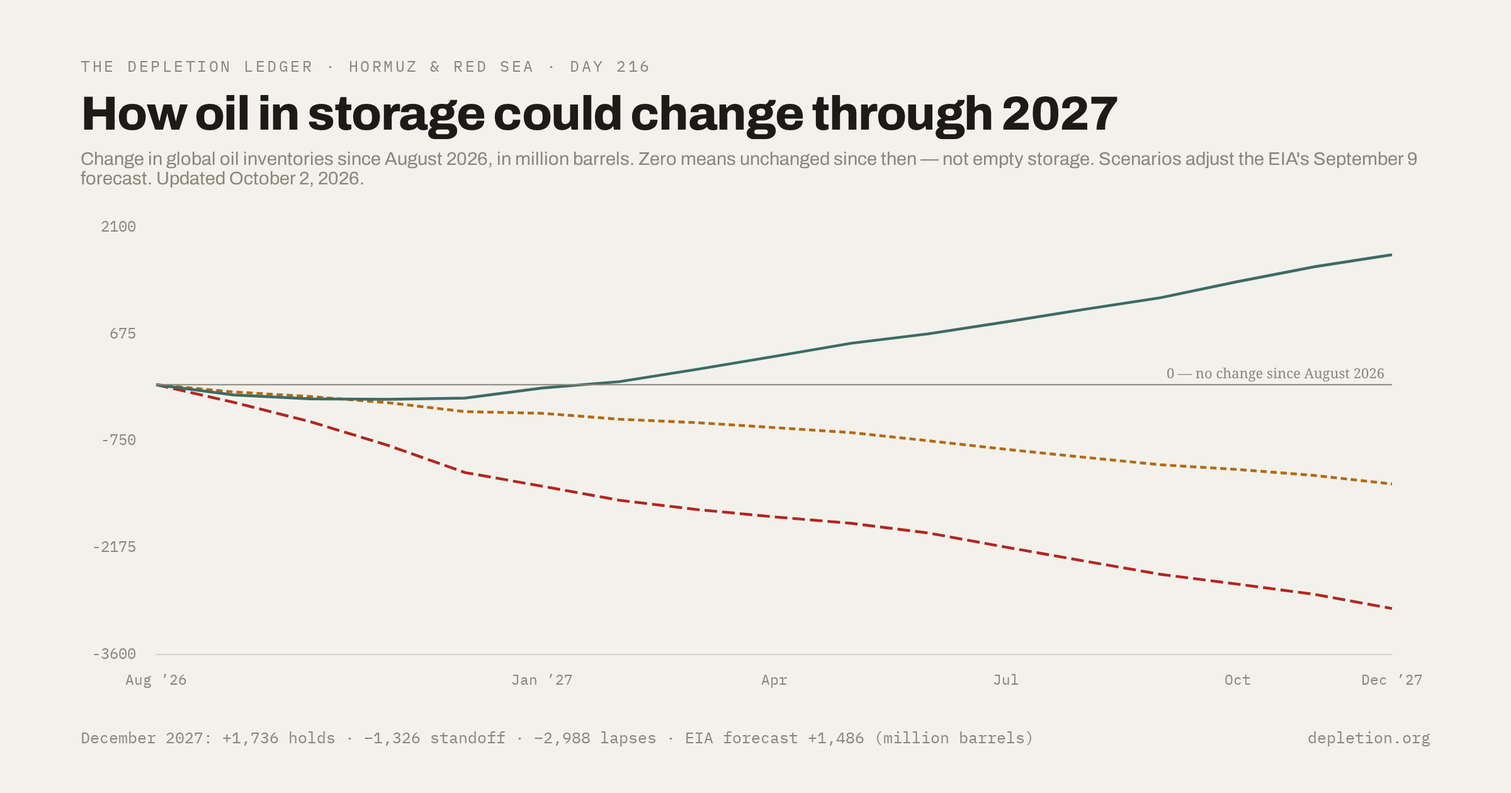
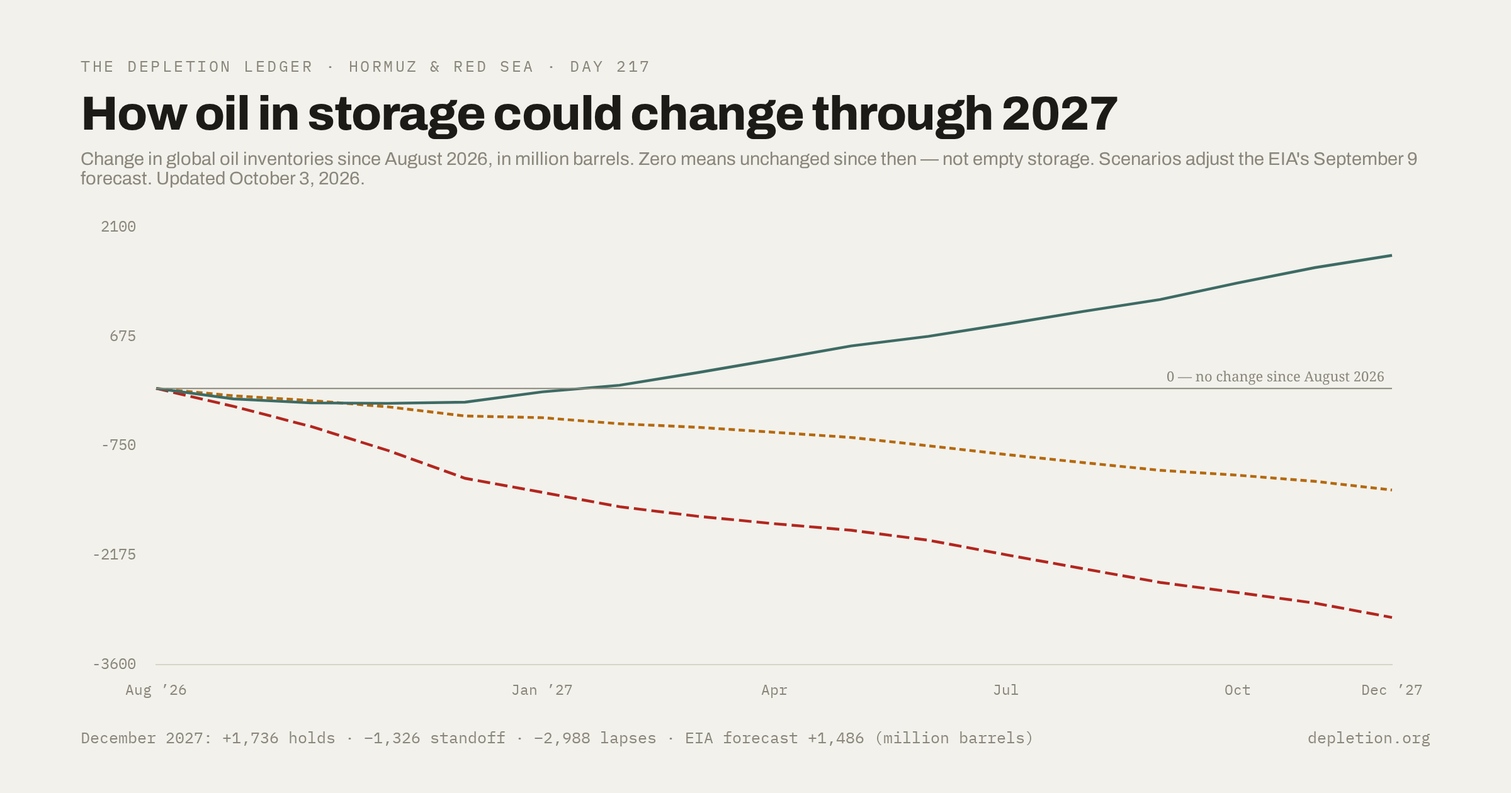
2026-10-03

diff --git a/site/src/data/crisis.ts b/site/src/data/crisis.ts
@@ -6,7 +6,7 @@
 // real observation with a source; `approx: true` marks a source's rounded estimate
 // (e.g. "Brent near $80 on Jun 22") and renders as a hollow marker.
 
-export const DATA_AS_OF = "2026-10-02";
+export const DATA_AS_OF = "2026-10-03";
 // War began Feb 28, 2026 (report: "Pre-war (Feb 28)"; ACLED damage inventory "since Feb 28"; IEA supply loss "since Feb").
 // Day count = days elapsed since Feb 28 → Sep 9, 2026 = Day 193.
 export const CRISIS_DAY_1 = "2026-02-28";
@@ -23,8 +23,8 @@ export interface SeriesPoint {
 // ---------- Headline stats ----------
 export const stats = [
   { label: "Brent", value: "$102.25", sub: "Oct 2 settlement · down $0.06 on the December contract · eighth session close above $100 · +35% vs pre-crisis ~$76" },
-  { label: "US diesel (AAA)", value: "$6.37", sub: "Oct 2 · tenth straight drop from the Sep 22 record $6.5276 · +71% vs pre-war $3.72" },
-  { label: "US gasoline (AAA)", value: "$4.40", sub: "Oct 2 · +56% vs Jan $2.81 (AAA)" },
+  { label: "US diesel (AAA)", value: "$6.36", sub: "Oct 3 · eleventh straight drop from the Sep 22 record $6.5276 · +71% vs pre-war $3.72" },
+  { label: "US gasoline (AAA)", value: "$4.38", sub: "Oct 3 · +56% vs Jan $2.81 (AAA)" },
   { label: "SPR", value: "283.8M", sub: "Sep 25 · down 0.8M in a week — about twice the prior two weeks' pace · down 131.7M from pre-war 415.4M · lowest since Nov 1982" },
   { label: "US diesel & heating oil", value: "105.2M", sub: "Sep 25 · down 2.3M in a week · 14.9% below last year · East Coast stocks 29% below last year" },
 ];
@@ -207,6 +207,7 @@ export const gasolineYtd: SeriesPoint[] = [
   { date: "2026-09-30", value: 4.4343, note: "AAA release, Sep 30" },
   { date: "2026-10-01", value: 4.4137, note: "AAA release, Oct 1" },
   { date: "2026-10-02", value: 4.3961, note: "AAA release, Oct 2" },
+  { date: "2026-10-03", value: 4.3807, note: "AAA release, Oct 3" },
 ];
 export const gasolinePreCrisis = 2.81; // Jan 2026 monthly avg (BTS/EIA)
 
@@ -246,6 +247,7 @@ export const dieselYtd: SeriesPoint[] = [
   { date: "2026-09-30", value: 6.4139, note: "AAA — eighth straight decline off the Sep 22 record" },
   { date: "2026-10-01", value: 6.3895, note: "AAA — ninth straight decline off the Sep 22 record" },
   { date: "2026-10-02", value: 6.3726, note: "AAA — tenth straight decline off the Sep 22 record" },
+  { date: "2026-10-03", value: 6.3554, note: "AAA — eleventh straight decline off the Sep 22 record" },
 ];
 export const dieselOldRecord = 5.85; // June 2022 AAA record (broken Sep 4)
 
@@ -526,11 +528,11 @@ export const watchGroups: { when: string; items: WatchItem[] }[] = [
   {
     when: "Any day",
     items: [
-      { item: "Whether the Saudi bypass keeps recovering. Since it restarted on Sep 22, the East–West pipeline has run at about 2.65M barrels a day (Kpler, Sep 29) — roughly half the pre-attack pace of about 5.5M a day. Shipping reports citing Vanguard Tech say a projectile struck the Yanbu North Crude Terminal on Oct 1, briefly stopping operations. No one has claimed responsibility, and news agencies have not confirmed the report.", why: "The restart restores an export route around Hormuz. We moved the odds to 10/50/40 on Sep 29 based on corroborated loadings and flows — further interruptions at the terminal could slow the recovery. Watch whether scheduled loadings continue." },
-      { item: "The G7's 100M-barrel release. On Oct 2 the G7 agreed to release up to 100M barrels of crude oil and refined fuels over four months through the IEA, including a substantial diesel release in the first 20 days. US distillate stocks, which include diesel and heating oil, stood at 105.2M barrels on Sep 25 (EIA).", why: "Watch whether diesel pump prices fall through late October and whether US distillate stocks return above about 30 days of supply, starting with the Oct 7 EIA report. Deliveries under the March 400M-barrel IEA release are still underway." },
+      { item: "Whether the Saudi bypass keeps recovering. Bloomberg reported on Oct 2 that the East–West pipeline was carrying about 6M barrels a day, more than 80% of its capacity. About 4.5M a day was available for export from Red Sea ports, a wartime high. Kpler had reported pipeline flows of about 2.65M a day on Sep 29, after the Sep 22 restart. Shipping reports (Marine Insight, citing Clearwater Dynamics) say a projectile struck inside the Yanbu port on Oct 1, starting a fire and briefly stopping loadings; loading later resumed. No one has claimed responsibility.", why: "The bypass lets oil leave Saudi Arabia without passing through Hormuz. Its restart informed our Sep 29 odds of 10/50/40. Watch whether tanker loadings keep up with the higher pipeline flows and whether further attacks interrupt them." },
+      { item: "The G7's 100M-barrel release. On Oct 2 the G7 agreed to release up to 100M barrels of crude oil and refined fuels over four months through the IEA, including a substantial diesel release in the first 20 days. Trump said the US would not ban diesel exports (Reuters, Oct 2). US distillate stocks, which include diesel and heating oil, stood at 105.2M barrels on Sep 25 (EIA).", why: "Watch whether diesel pump prices fall through late October and whether US distillate stocks return above about 30 days of supply, starting with the Oct 7 EIA report. Deliveries under the March 400M-barrel IEA release are still underway." },
       { item: "Whether the US and Iran agree on the steps to reopen the strait. Trump publicly rejected Iran's seven-day proposal on Sep 26. Rubio ordered the Iranian delegation to leave New York on Sep 28; the State Department confirmed the order on Oct 1. The Pentagon is considering sending more naval forces, which could leave three carriers in the region (Washington Post). Iran is preparing a broader, more forceful response if the US resumes large-scale strikes (Reuters, Oct 1).", why: "Watch for a signed deal, a change in the blockade, or a resumption of strikes — any of which could change how much oil gets through." },
-      { item: "Whether Houthi attacks spread to non-Saudi shipping. The escalation so far has stayed on Saudi territory — the coalition intercepted four drones and two ballistic missiles over Khamis Mushait and Jazan on Oct 1; no non-Saudi vessel has been hit. Separately, Reuters (Oct 2) reports Saudi Arabia is planning a ground assault on the Houthis — an attack around Bab el-Mandeb or on several fronts, potentially involving more than 100,000 Yemeni troops.", why: "War-risk insurance for non-Saudi ships is about 0.2–0.3% of hull value vs 3–7% for Saudi-linked tankers, and there is no US escort in the Red Sea (Reuters, Sep 25). A strike on a non-Saudi vessel could push container traffic back around Africa." },
-      { item: "Ship traffic through Hormuz. Kpler's verified daily counts: 14 (Sep 23), 9 (Sep 24), 5 (Sep 26), none (Sep 27). UKMTO logged a tanker struck by an unknown projectile on Oct 1 (147-26) and a second on Oct 2 (148-26). The second tanker was leaving the strait; its crew extinguished the fire and the vessel continued underway. Six vessels have been struck since Sunday (gCaptain).", why: "Kpler's seven-day average of crude oil exports through the strait rose to 13.5M barrels a day through Sep 28 — back at the pre-war crude level. But crude and products together (14.2M a day) still run about 80% of pre-war, with refined products far below pre-war (CNBC, Sep 30). Watch whether more ships can pass safely." },
+      { item: "Whether Houthi attacks spread to non-Saudi shipping. The escalation so far has stayed on Saudi territory — the coalition intercepted four drones and two ballistic missiles over Khamis Mushait and Jazan on Oct 1; no non-Saudi vessel has been hit. Yemeni government forces claim 474 strikes in 24 hours killed or wounded 1,540 Houthi fighters (Oct 3 report; unverified). Reuters reported on Oct 2 that Saudi Arabia is planning a larger ground assault, potentially involving more than 100,000 Yemeni troops. Critical Threats, citing a Pakistani official, reports that Pakistan has deployed 30,000–40,000 military personnel to help defend Saudi airspace and borders.", why: "War-risk insurance for non-Saudi ships is about 0.2–0.3% of hull value vs 3–7% for Saudi-linked tankers, and there is no US escort in the Red Sea (Reuters, Sep 25). A strike on a non-Saudi vessel could push container traffic back around Africa." },
+      { item: "Ship traffic through Hormuz. Kpler's verified daily counts: 14 (Sep 23), 9 (Sep 24), 5 (Sep 26), none (Sep 27). UKMTO logged tankers struck by unknown projectiles on Oct 1 (147-26) and Oct 2 (148-26) inside the strait. Reuters reported early on Oct 3 that a third crude tanker had been struck 4 nautical miles east of the Omani coast (UKMTO 149-26, issued Oct 2 at 21:42 UTC — the warning gives no coordinates). Crews were reported safe in all three incidents, with no vessel losses reported. Six vessels had been struck in the strait since Sunday as of Oct 2 (gCaptain).", why: "Kpler's seven-day average of crude oil exports through the strait rose to 13.5M barrels a day through Sep 28 — back at the pre-war crude level. But crude and products together (14.2M a day) still run about 80% of pre-war, with refined products far below pre-war (CNBC, Sep 30). Watch whether more ships can pass safely." },
     ],
   },
   {

diff --git a/research/SUMMARY.md b/research/SUMMARY.md
@@ -1,5 +1,7 @@
 # Oil Crisis — Living Summary
 
+*Last updated: Oct 3, 2026 (Day 217, ~13:40 UTC) — **full daily pass: judgment UNCHANGED at 10/50/40; no clause fired** — **Bypass recovery ahead of the weekly data: Bloomberg (Oct 2) — Aramco has restored the East–West pipeline to MORE THAN 80% of capacity, ~6M b/d with ~4.5M b/d available for export from the Red Sea ports, a wartime high** (up from 2.65M b/d on Kpler's Sep 29 reading). **Third tanker of October: Reuters reported early Saturday that a crude tanker had been struck by an unknown projectile 4nm east of the Omani coast (UKMTO 149-26, issued Oct 2 at 21:42 UTC — no coordinates in the warning, so "outside the strait" is NOT established) — crew safe, no attribution, not a loss** (loss input stays at 1, *La Stephanie*). **Yanbu corroborated** (Marine Insight/Clearwater Dynamics: the Oct 1 projectile started a fire; loading briefly stopped, later resumed). **UNCONFIRMED, held off the site: Reuters witness report of a large fire at an Aramco facility near Riyadh (~11:50 UTC) + FIRMS thermal + alleged Houthi strike** — no official confirmation, no damage report; if true, the first strike on Saudi infrastructure in the capital region. **Yemen: the strike tempo is up** — the Yemeni government claims 474 operations / 1,540 killed or wounded in 24h (unverified; the tally includes artillery and missiles, not airstrikes alone); NYT reports the planned 100k+ Yemeni-troop assault is now underway (that stands on the NYT report — the 474 tally alone does not establish it); Critical Threats reports Pakistan deploying 30–40k personnel to Saudi. **Trump: the US will NOT ban diesel exports** (Reuters, Oct 2, after the G7's 100M-bbl release). OPEC+ meets tomorrow (Oct 4); STEO Oct 6; WPSR Oct 7. Prices: no new settlement (Saturday) — Oct 2 settles stand (Brent $102.25, WTI $91.11, 10-yr 5.277). AAA Oct 3: diesel **$6.3554 — eleventh straight drop off the $6.5276 record**, regular $4.3807; cracks re-paired to the Oct 2 settlement ($91.11, nearest trading day): diesel $175.8, gasoline $92.9 (record $181.8, Sep 23). Polymarket: Dec 31 20.5% (flat), Oct 31 3.15% (up from 2.55%), Nov 30 9.5%. **Model v2.4b: HORIZON 15.0/50.0/35.0 (STATE 0/100/0) — flat** (transits 5 — Kpler's Sep 28–30 / Oct 1–2 daily counts still unpublished). Calibration: unchanged — 2 resolved, 9 open, Brier 0.2210. Site: Oct 3 retail + crack re-pairing + watchlist rework — **PRODUCTION SHIPPED ~14:36 UTC on the user's green light, version 9acfb2fd-1e81-4a17-9aac-705609192317** (supersedes d2ba166c; staging ran 88c1c7fa → e81218b6 with the external-review corrections → 14cd82c0 with the Brent/WTI + 10-yr endpoint dot fixes; scale fix gasXScale/crack 277→278 in 88c1c7fa). Verified on prod: www 200 / apex 301 / /model 200, all new strings present, stale gone, all 20 charts OK (brentChart nearEnd=2, treasury10yChart endDot=true), zero console errors. **FLAG: the China export-suspension trigger candidate expired today unratified (48h rule) — EXPIRED UNPRICED, event recorded.**
+
 *Last updated: Oct 2, 2026 (Day 216, ~22:10 UTC) — **DATA PASS (user-directed chart check) — Oct 2 settles ingested: Brent $102.25 (Dec, −$0.06, EIGHTH close above $100; intraday low $98.43 on the G7 release news), WTI $91.11 (Nov, −1.9%), 10-yr 5.277% (eighth straight close above 5%, below the war-high 5.293)** — cracks re-paired same-day: diesel $176.5 / gasoline $93.5 (record $181.8, Sep 23). Russia struck list now 7 plants (Volgograd, Oct 2, Gen Staff — halt unverified; "Samara" oil terminal also hit); Novorossiysk row dropped and folded into the flag; Novak's partial-diesel-lift signal added; section net-smaller (S&P tonnage breakdown, Mongolia protests, duplicated September tally cut). Watchlist NET ZERO (7→7, in place): Yanbu terminal strike, G7 100M-bbl release (frontloaded diesel, 20 days), plan rejection + delegation expulsion + carrier surge, Saudi ground-assault plan, UKMTO 148-26. — **PRODUCTION SHIPPED ~23:05 UTC on the user's green light, version d2ba166c-a044-476a-b858-1d164c56aaa6** (supersedes 7a5a15e6; staging versions 71f591a6 → 1ba14fe9 with the external-review corrections; prod verified: all new strings present, no stale strings, all 20 charts OK, zero console errors).*
 
 *Last updated: Oct 2, 2026 (Day 216, ~21:40 UTC) — **EVENING NEWS-ONLY PASS (user deferred prices) — judgment UNCHANGED at 10/50/40; no clause fired** — **UKMTO 148-26: a second tanker struck in the strait on Oct 2 (after 147-26 on Oct 1) — outbound transit, small fire + blackout, extinguished, vessel underway; KOTC VLCC per Splash247, single source; NOT a confirmed loss — loss input stays at 1, *La Stephanie*** — gCaptain tally: six vessels hit in the strait since Sunday. **Yanbu UPGRADED from claim to corroborated:** a projectile landed within the port area of **Yanbu North Crude Terminal on Thursday Oct 1** — fire near a tank farm, **terminal temporarily suspended operations** (Maritime Executive + Vanguard Tech + bystander video; Splash247: "briefly disrupted loading") — days after loadings resumed (11 tankers loading by Wednesday); **no claim of responsibility, no wire confirmation**; the ESPO line itself not reported damaged; Macron's French air-defense deployment for the site is in place. **Saudi Arabia plans a ground assault on the Houthis** (Reuters; two options: focused Bab el-Mandeb coastal push or multi-front offensive; 100k+ Yemeni troops; no comment from any side). **G7 100M release is now the official announcement** (AP/Reuters/WSJ/NYT): up to 100M bbl over 4 months via the IEA, "frontloaded substantial diesel release within the first 20 days by G7 members and partners"; US distillate stocks (diesel + heating oil) at 105.2M bbl on Sep 25 (EIA) — the AJ-cited "record-low 107.9M (Sep 11)" figure is stale per the external review; the March 400M-bbl IEA release is still running. **Diplomacy hardens both ways:** State Department confirmed **Rubio ordered Araghchi's UN delegation out of New York** (order given Monday; the delegation flew to Doha; Qatar still mediates); **Reuters: Iran is preparing a broader, more forceful response if the US resumes large-scale strikes** (officials privately see diplomacy as unlikely to succeed); **Pentagon is planning a possible SURGE of naval forces — three carriers in the region** (WaPo; third CSG + ~10k troops deploying); Treasury extended Operation Economic Outcast to Iran's auto sector (IKCO/SAIPA, >90% of domestic market), rail, metals + the A7 shadow-banking network, with sectoral determinations. **Flydubai:** Netanyahu says the co-pilot had undergone "Islamist radical indoctrination." **Bloomberg:** FBI/Coast Guard found hackers accessed the propulsion system of a US-bound supertanker this summer (no attribution). **Macro context:** September payrolls +29k with unemployment rising (weak payrolls cut Fed-hike odds); ISM prices index 77.9 — "the level last seen when the war began." **Houthi front:** 4 drones + 2 ballistic missiles intercepted over Khamis Mushait/Jazan Thursday; Medina power-station claim stands (Houthis deny); 197,906 IDPs registered; UN: 3 in 4 households go hungry in parts of Yemen; SNN "explosions in Riyadh" (~20:30 UTC) UNVERIFIED (single source). **China export-suspension trigger candidate still open — due RATIFY OR EXPIRE ~Oct 3.** Next: STEO Oct 6 (the EIA–market spread check — cannot miss it), OPEC+ Oct 4, WPSR Oct 7. Site NOT touched this pass — the 148-26/Yanbu/G7/Saudi-offensive updates + the pending EU-diesel watchlist rewrite land in the next full pass.*
@@ -24,6 +26,8 @@
 
 
 ## Where things stand
+
+**Oct 3 (full daily pass): the bypass is recovering faster than the weekly data showed, a third tanker was hit — and there is an unconfirmed fire at an Aramco refinery near Riyadh.** The strait's quiet run (ended Oct 1) has continued to deteriorate: a third October tanker — a crude tanker struck 4nm east of the Omani coast (UKMTO 149-26, issued Oct 2 21:42 UTC; no coordinates, so "outside the strait" is not established; crew safe, no attribution, no loss). The Yanbu port fire (Oct 1 strike) is corroborated — loading briefly stopped, later resumed. Meanwhile the East–West pipeline is back above 80% of capacity at ~6M b/d (Bloomberg, Oct 2) — a wartime export high that weakens the "one month to full return" reading the watchlist carried since Sep 29. The Yemeni government claims 474 operations in 24h (unverified; artillery/missiles/other weapons, not airstrikes alone) and NYT reports the planned ground assault is now underway — that stands on the NYT report; the tally alone does not establish the coastal offensive has begun. **Unconfirmed: a Reuters witness report of a fire at an Aramco facility near Riyadh** (FIRMS thermal, alleged Houthi claim, no official confirmation) — the first capital-region strike if true; held off the site, logged. Judgment **10/50/40 unchanged — no clause fired**; model flat at **15.0/50.0/35.0** (no Kpler daily counts since Sep 27 to move the transits input). Prices flat (no Saturday settlement); diesel **$6.3554**, eleventh straight drop. **The China export-suspension trigger candidate EXPIRED UNPRICED today** (48h rule, unratified — event recorded). Next: **OPEC+ Oct 4 (tomorrow), STEO Oct 6, WPSR Oct 7** — all three scheduled events inside 72h.
 
 **Oct 2 (full daily pass): the strait's quiet run is over** — UKMTO 147-26: a supertanker was struck by an unidentified projectile in the strait on Oct 1, 1750 GMT (fire on board, all crew safe, no damage assessment yet — the first tanker attack in October; NOT a confirmed loss, so the tanker-loss filter input stays at 1, *La Stephanie*). Brent settled **$102.31 on the December contract** on Oct 1 (the November contract's final day was Sep 30 at $103.50 — the roll is disclosed; +4.4% vs the December contract's own prior; a seventh consecutive close above $100); **WTI (November contract) $92.87, +2.7%**; the **10-yr closed 5.237% — seventh straight close above 5%, down from the war's high close of 5.293% on Sep 30**. Diesel **$6.3726 — a tenth straight drop off the $6.5276 record**; gasoline **$4.3961**; cracks $175.5/$174.8 (diesel) and $92.5/$91.8 (gasoline) vs the $92.87 settlement (record $181.8, Sep 23). Polymarket: "normal by **Dec 31**" **20.5%** (drifted up from 19.5% — still the most-closed market), "by Oct 31" 2.55%, "by Nov 30" 9.5%. Model v2.4b: **HORIZON 15.0/50.0/35.0 (STATE 0.0/100.0/0.0) — flat**; judgment **10/50/40 unchanged; no clause fired** (the UKMTO strike is an attack, not a confirmed loss, inside the ongoing negotiation regime; the Trump "ready to fold up" remarks are posturing; the EU reserve proposal and the OPEC+ delay are process). Kpler: the 7-day average of crude through the strait rose to **13.5M bpd through Sep 28 (near pre-war by the crude measure) — but product flows remain under 20% of pre-war; "diesel carries the sharpest risk"**; September LNG was the highest since the war started. **France proposed a 50M-bbl joint diesel release + 50M-bbl crude via the IEA** (US condition: no unilateral diesel export ban; G7 call possible). **OPEC+ delayed the 2027 output-quota capacity review to mid-November** (war disrupted expansion plans). Trump: Iran is "ready to fold up," the war will end "right after the election, or sooner" (the 9,000-troop build-up continues; three carriers/two landing groups by end-November). **The China export-suspension trigger candidate is still open — expires ~Oct 3.** Next: **STEO Oct 6** (the EIA–market spread reweight check — cannot miss it), **WPSR Oct 7** (SPR pace + the Sep 28–30 Kpler counts).
 

diff --git a/research/logs/2026-10-03.md b/research/logs/2026-10-03.md
@@ -1,0 +1,61 @@
+# Daily pass — Sat Oct 3, 2026 (~13:40 UTC) — day 217
+
+## Step 0 — landing checks
+- EIA WPSR: newest is week ending Sep 25 (already ingested); next is Oct 7.
+- CPI: newest is August (already ingested).
+- Nothing else new today (Saturday).
+- No futures contract rolls (WTI Nov rolls ~Oct 25; Brent Dec in mid-Dec).
+- Prices: no new settlement — Oct 2 settles remain the latest (Brent Dec 102.25, WTI Nov 91.11, 10y 5.277); BZ=F/CL=F spread 11.14 = normal.
+
+## News (wire/primary first)
+1. **ESPO above 80% of capacity** (Bloomberg, Oct 2, via Investing.com + briefs.co): Aramco has restored the East–West pipeline to ~6M b/d, with ~4.5M b/d available for export from the Red Sea ports — a wartime high. Big step up from the 2.65M b/d Kpler saw on Sep 29; the bypass is recovering faster than the weekly data suggested.
+2. **Third tanker of October** (Reuters, published early Sat): UKMTO 149-26 (ATTACK, issued Oct 2 at 21:42 UTC — primary PDF pulled this pass) reports a crude tanker struck by an unknown projectile **4nm east of the Omani coast, no coordinates in the warning** ("east of Oman" is not established as outside the strait — Oman includes Musandam). Crew safe, no environmental impact reported, authorities investigating. The attack time itself is unverified — "early Oct 3" is the Reuters publication time, not the event time. Vessel not lost.
+3. **Riyadh Aramco refinery fire — UNCONFIRMED** (Reuters witness report, ~11:50 UTC): heavy smoke/fire near an Aramco facility in Riyadh; FIRMS shows a thermal anomaly; alleged Houthi strike (Türkiye Today) with no evidence. No official confirmation, no damage report, no claim of responsibility. If confirmed, the first strike on Saudi infrastructure in the capital region. Held off the site this pass; log as claim.
+4. **Yanbu corroboration** (Marine Insight, Oct 3, citing Clearwater Dynamics): projectile struck inside Yanbu port on Oct 1, fire, **loading briefly stopped (a Liberian-flagged tanker, reported 13:15) and later resumed** — corroborates the Oct 1 terminal strike already on the watchlist; no casualties or damage extent reported.
+5. **Trump: no US diesel export ban** (Reuters/Politico, Oct 2) — after the G7 agreed the 100M-barrel release.
+6. **Yemen: the strike tempo is up** — Yemeni government claims 474 operations / 1,540 killed or wounded in 24h (Iran International, Oct 2 statement, Oct 3 coverage; the tally includes artillery, missiles and other weapons — not airstrikes alone; unverified). Houthis claim 94+ Saudi strikes across Yemen; NYT reports the long-planned Saudi ground assault is now underway (that attribution stands on the NYT report — the 474 tally alone does not establish that the separately planned coastal ground offensive has begun); Critical Threats reports Pakistan deploying 30-40k personnel to Saudi (air defense + border, citing a Pakistani official). This is the Oct 2 log's "tripwire if it starts" item.
+7. OPEC+ meets tomorrow (Oct 4); expected to hold November quotas (IndexBox/Bloomberg).
+8. VLCC spot rates at a record (TradeWinds).
+9. Fars News (Iranian state media, single source): 7 ships targeted in the strait in 5 days.
+10. Dropped as stale re-surfaced items: "Iran declares strait closed" (July), "SPA: attacks reduce Saudi crude output" (Apr 9), FT "non-hostile vessels" (March).
+
+## Prices / retail / markets
+- **AAA Oct 3: diesel $6.3554** (eleventh straight drop from the Sep 22 record $6.5276), regular $4.3807.
+- **Crack re-paired to the Oct 2 settlement ($91.11, nearest trading day — Oct 3 is a Saturday):** diesel $175.8, gasoline $92.9. Record $181.8 (Sep 23) stands.
+- Polymarket: Dec 31 normal 20.5% (flat), Oct 31 3.15% (up from 2.55%), Nov 30 9.5% (flat).
+- JOGMEC gas: no new print (Sep 28 stands; next ~Mon Oct 5).
+
+## Model
+- branch_filter v2.4b: prior 0.1/0.5/0.4, transits 5 (Kpler's Sep 28–30 and Oct 1–2 daily counts still unpublished), tankers 1, Brent 102.25, volume 7.4 → **HORIZON 15.0/50.0/35.0** (STATE 0/100/0). Flat.
+- Judgment **10/50/40 unchanged**; no pre-committed clause fired.
+- Items flagged for the judgment (not model re-run triggers): (a) Riyadh fire — first capital-region strike if confirmed; (b) the claimed Yemen strike tempo suggests the Saudi-led ground offensive has begun; (c) ESPO >80% — bypass recovery ahead of the Kpler weekly.
+
+## Calibration
+- No new rows — no forecast publications changed today. Ledger unchanged: 2 resolved (Russia diesel ban 0.65→0, brier 0.4225; Fed Sep 16 0.20→1), 9 open, Brier 0.2210. The two Sep 30-due Polymarket rows (Hormuz normal, ceasefire) remain unresolved pending UMA.
+
+## External-review corrections (applied after staging 88c1c7fa)
+- **Yanbu**: "halting loadings" → "briefly stopped loadings; loading later resumed" (Marine Insight/Clearwater Dynamics — the cited source reports the resumption; the first draft omitted it).
+- **Oman tanker**: "early on Oct 3" was the Reuters publication time — UKMTO 149-26 was issued Oct 2 21:42 UTC (primary PDF pulled this pass; the reviewer's 403 didn't reproduce from this box). Copy now says "Reuters reported early on Oct 3… (UKMTO 149-26, issued Oct 2 at 21:42 UTC — the warning gives no coordinates)"; the "outside the strait" / "Gulf of Oman" claims dropped (no coordinates; Oman includes Musandam).
+- **Six-vessels tally**: dated + scoped — "Six vessels had been struck in the strait since Sunday as of Oct 2 (gCaptain)" (gCaptain's count runs through warning 148-26; it is not a post-Oman count of seven).
+- Reviewer's own copy edits absorbed (pipeline item, Houthi item, "no vessel losses reported", weekend-spread methodology note).
+- Internal wording: "474 airstrikes" → "474 operations" (the tally includes artillery/missiles/other weapons).
+- Rebuilt + re-deployed to staging **e81218b6** (supersedes 88c1c7fa); strings verified live (new wording present, all three stale phrasings gone). Superseded by the dot-fix deploy 14cd82c0 (below); prod unchanged (d2ba166c).
+
+## Site
+- Oct 3 retail points + crack re-pairing (methodology note updated: Oct 3 pairs with the Oct 2 settlement), stats strip, day counter 216→217, endpoint labels, watchlist rework: ESPO >80% item, no-diesel-ban sentence, third tanker (off Oman), Yemen strike tempo + Pakistan deployment (Critical Threats attribution fixed after first draft mis-attributed it to Reuters).
+- Riyadh fire held off the site (too fresh/unconfirmed for a sourced claim).
+- Scales: gasXScale 277→278 and crack-chart override 277→278 (the Oct 3 point sat at doy 276 and clipped at 3.9px on the first staging deploy). moneyXScale left at 277 (price data still ends Oct 2, doy 275).
+- Staging 2fe72592 (first) → **88c1c7fa** (scale fix). All 20 charts OK, zero console errors. Prod unchanged (d2ba166c).
+
+## Flag for user
+- **RESOLVED at prod ship (~14:36 UTC): the China export-suspension trigger candidate EXPIRED UNPRICED** — raised Oct 1 under the 48h rule, surfaced in both the Oct 2 and Oct 3 reports, unratified by the deadline. Logged per the rule: EXPIRED UNPRICED — event recorded (the event itself remains in the log and on the site as context; no odds or model input ever carried it).
+- **China export-suspension trigger candidate expires today** (48h rule, raised in the Oct 2 report). Awaiting ratify-or-expire decision — if not ratified by end of pass, log "EXPIRED UNPRICED — event recorded."
+- OPEC+ meets Oct 4; STEO Oct 6; WPSR Oct 7 — the next three scheduled events all land within 72h.
+
+## Dot fixes (user-reported, after the review corrections)
+- **brentChart/WTI**: keep-sets carried three consecutive daily dots at the right edge (Sep 30, Oct 1, Oct 2 on BOTH lines — a leftover of the Oct 2 pass appending without pruning). Now only the Oct 2 endpoint dot per line (the run-of-daily-dots rule: keep the last dot of the run). dotsNearEnd(3d) 6→2 in the rendered chart.
+- **treasury10yChart**: the Oct 2 pass added the Oct 2 point + endpoint label but never the keep-set entry (set ended at Oct 1) — the labeled endpoint had no dot. treasuryView now ends at Oct 2 (Oct 1 dropped — blurs at ~3px). endpointDotted=true.
+- Rebuilt + re-deployed to staging **14cd82c0** (supersedes e81218b6); geometry harness verified (all 20 charts OK, endpoints dotted, zero console errors). Prod unchanged (d2ba166c).
+
+## Production shipped (~14:36 UTC)
+User green light. `npm run deploy` (clean build + make-og + wrangler; prod deploy used the `~/.airhoncho-cf-token` file — the dedicated prod token file `~/.pi/agent/depletion-cf-token` does not exist on this box) → worker `oil-report`, version **9acfb2fd-1e81-4a17-9aac-705609192317** (supersedes d2ba166c). Verified live: www 200, apex 301, /model 200, bundle 200; all new strings present (review-correction wording + Oct 3 data in HTML and JS), stale strings gone; geometry harness green on all 20 charts (brentChart nearEnd=2, treasury10yChart endDot=true), zero console errors. og-supply.png regenerated (128,418 B).
